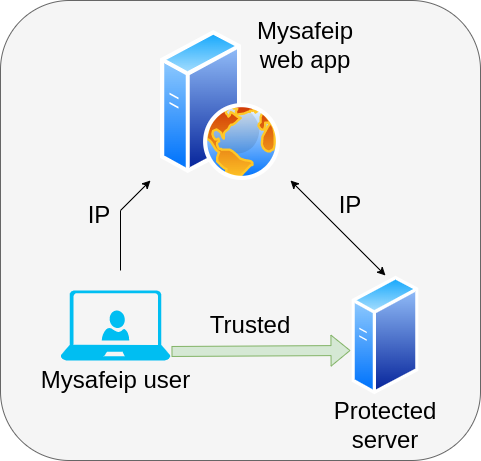
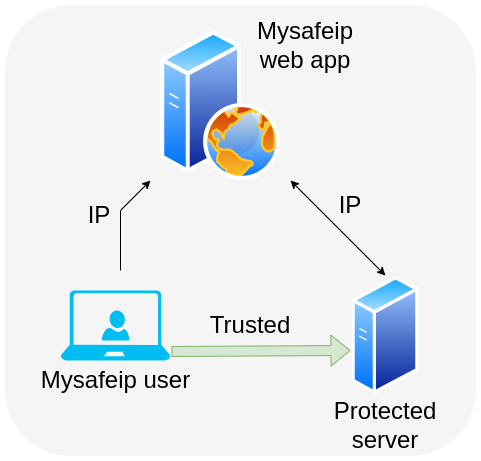
French Readme translation and diagram fix

diff --git a/README-FR.md b/README-FR.md
@@ -1,0 +1,37 @@
+# MySafeIp
+
+For english version, [it's here!](./README-EN.md)
+
+## MySaFeip est une application Web agissant comme un tiers de confiance pour les pare-feu.
+Avec cela, je n'ai pas à ouvrir mes propres services (NextCloud, Bitwarden, etc ...) au monde entier. Juste moi, ma famille et mes amis peuvent utiliser ces services facilement. La famille et les amis n'ont même pas besoin d'un compte grace aux liens instantanés. J'espère qu'il pourra vous rendre les mêmes services.
+
+MySafeIP est livré avec un [Conteneur Docker] (https://github.com/yvguim/mysafeip-compose) et un [client] (https://github.com/yvguim/mysafeip-client) pour récupérer les IP de confiance.
+<p align="center">
+  <img width="400" height="383" src="https://raw.githubusercontent.com/yvguim/mysafeip/main/docs/diag.png">
+</p>
+
+***Astuce***: L'utilisateur n'a pas besoin de connaître son IP publique, MySafeIP vérifiera directement les en-têtes HTTP.
+
+Il est basé sur le framework [Fastapi] (https://github.com/tiangolo/fastapi) et est disponible en anglais et en français.
+
+Je considère MySAFEIP 0.9 comme une version alpha pour le moment (une meilleure organisation de code, de la refactorisation et des tests arrivent) mais cela fonctionne assez "out of the box".
+
+## Vous pouvez:
+- Déclarer une ou plusieurs IP de confiance;
+- Déclarez un lien accessible à tout le monde: MySaFeip agit comme un redirecteur d'URL et enregistre l'IP du client à la volée;
+
+## C'est facile à installer (docker inside):
+- MySafeIP s'installe facilement avec docker: https://github.com/yvguim/mysafeip-compose
+- MySafeIp-client se configure aussi facilement: https://github.com/yvguim/mysafeip-client
+
+## Quelques copies d'écran:
+### L'accueil
+![](https://raw.githubusercontent.com/yvguim/mysafeip/main/docs/cap0.png)
+### La déclaration d'IP
+![](https://raw.githubusercontent.com/yvguim/mysafeip/main/docs/cap1.png)
+### Les liens instantanés
+![](https://raw.githubusercontent.com/yvguim/mysafeip/main/docs/cap2.png)
+
+## Jetez un coup d'oeil à la demo sur Youtube:
+
+Disponible bientôt ;)

diff --git a/README.md b/README.md
@@ -1,7 +1,10 @@
 # MySafeIp
 
+Pour la version française, [c'est ici ](./README.md)
+
 ## MySafeIp is a web app acting as a trusted IP source for firewalls.
 With it, I don't have to open my own services (Nextcloud, bitwarden, etc...) worldwilde. Just me, my family and friends can use those services easily. Family and friends don't even need an account to mysafeip with instant link feature.
+
 It comes with a [docker container](https://github.com/yvguim/mysafeip-compose) and a [client](https://github.com/yvguim/mysafeip-client) to retrieve IP from server.
 <p align="center">
   <img width="400" height="383" src="https://raw.githubusercontent.com/yvguim/mysafeip/main/docs/diag.png">
